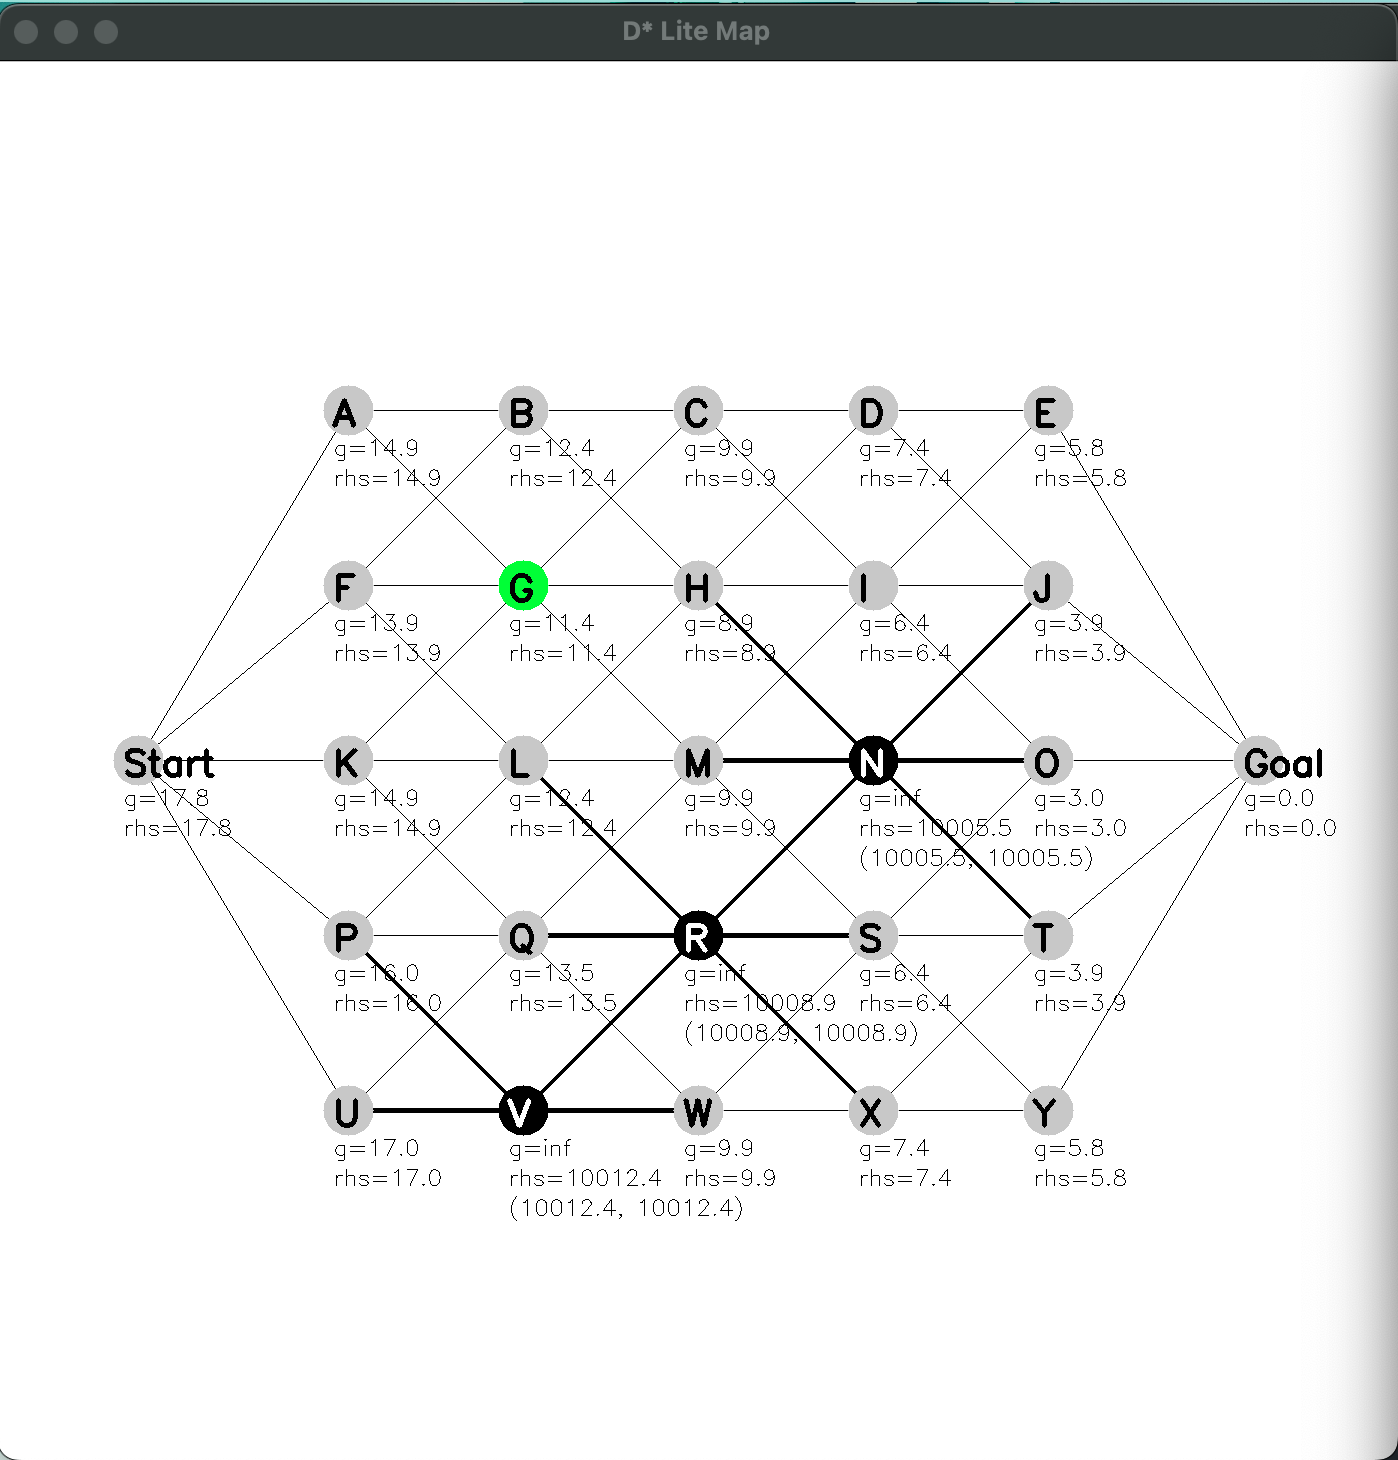
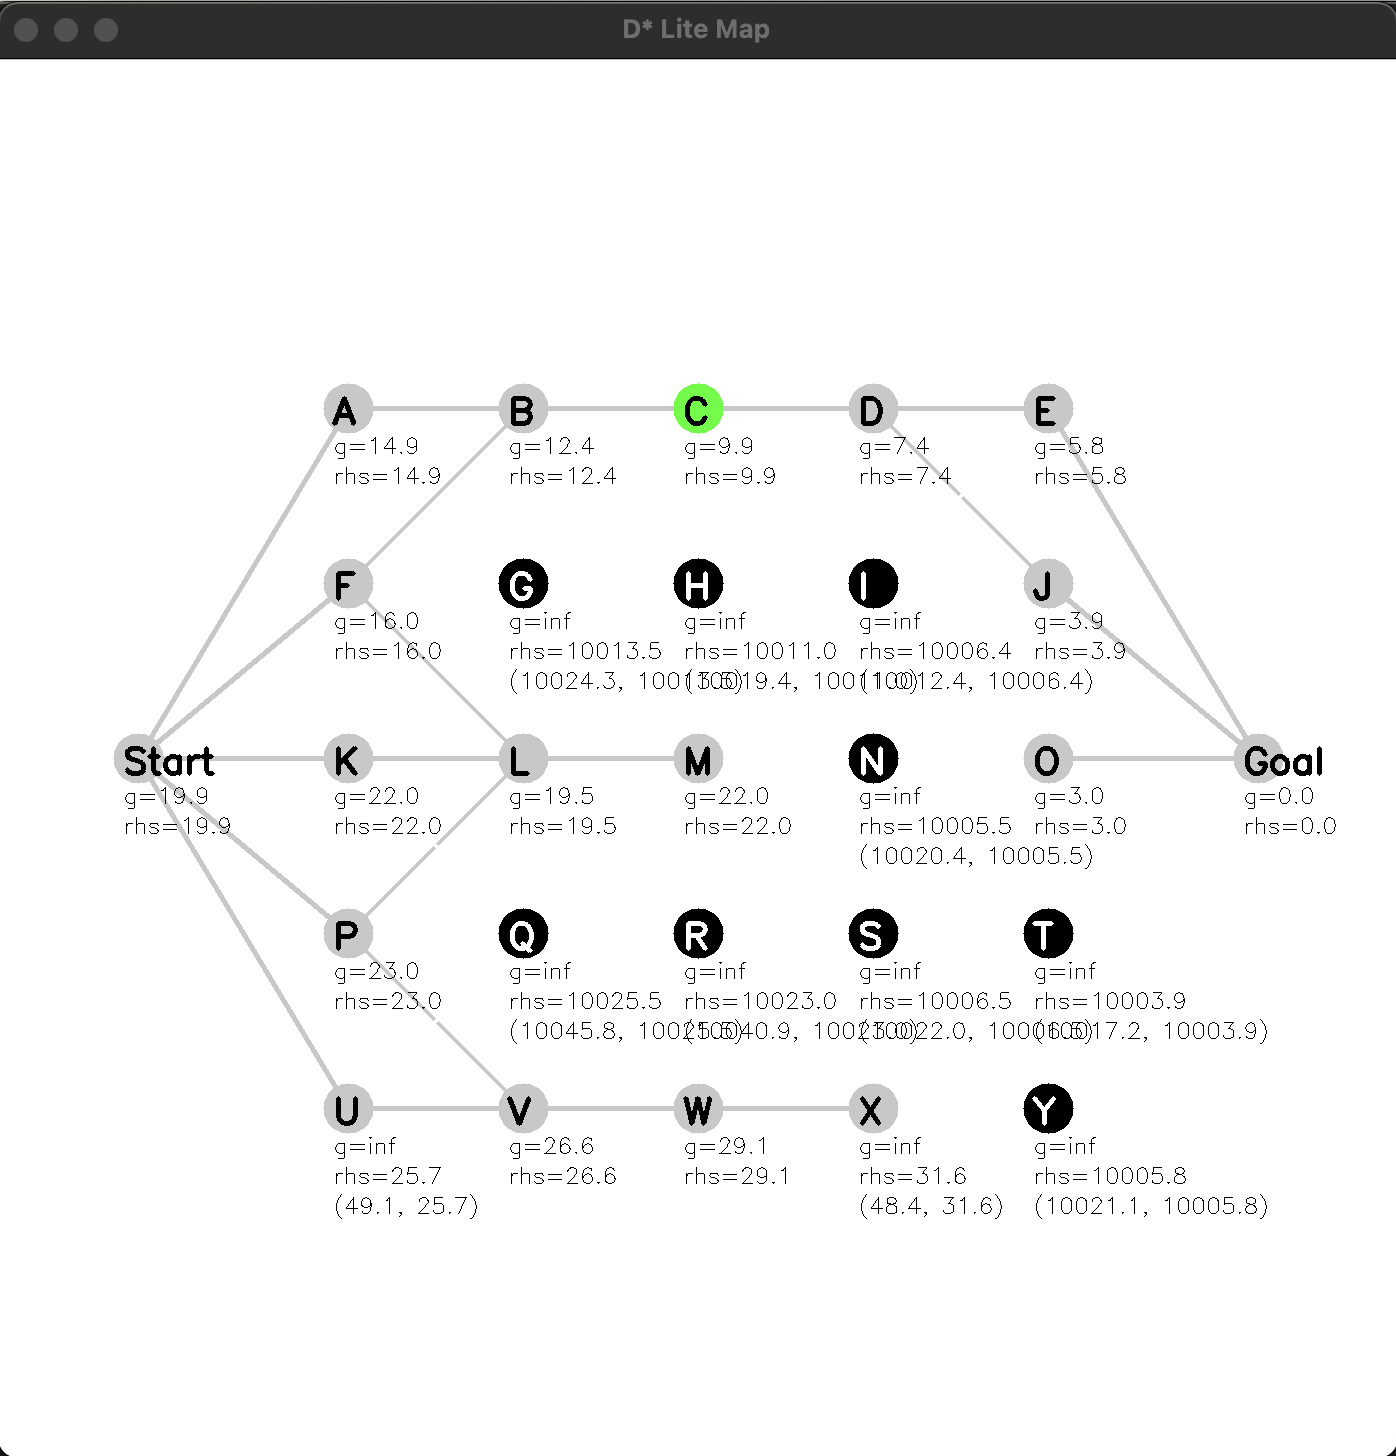
updating readme image

diff --git a/Planning/src/DStarLite/DStarLiteOptimized.h b/Planning/src/DStarLite/DStarLiteOptimized.h
@@ -25,7 +25,7 @@ public:
   void removeNamedObstacle(const string& obsName, double weight = 10000) override;
 
 private:
-  int DEBUG_LEVEL = 3;// 0 for no output, the higher the number the more output
+  int DEBUG_LEVEL = 0;// 0 for no output, the higher the number the more output
   void initialize() override;
   void updateVertex(const shared_ptr<DStarNode>&node) override;
   void computeShortestPath() override;

diff --git a/Planning/README.md b/Planning/README.md
@@ -7,8 +7,9 @@ Requires OpenCV to display images, and YAML to read in config files.
 	* Based on original D* Lite paper https://idm-lab.org/bib/abstracts/papers/aaai02b.pdf
 	* `dStarLite` runs D* Lite on a hard-coded graph of 5 nodes, with a moving obstacle also hard-coded in
 		* Text output only
-	* `dStarLiteInteractive` runs D* Lite on a graph of 25 nodes in a grid between Start and Goal Nodes
+	* `dStarLiteInteractive` and `dStarLiteOptimized` both run D* Lite on a graph of 25 nodes in a grid between Start and Goal Nodes
 		* At each iteration, user is prompted to list nodes to become obstacles, or list nodes to stop being obstacles
+		* Behavior should be identical, but dStarLiteInteractive uses the standard D* Lite algorithm and dStarLiteOptimized uses the optimized algorithm
 		* Example output:
 
 	<img src="./DStarLite.png" width="600">
@@ -44,6 +45,7 @@ Then run one of the following programs from the build folder. Type any key to cl
 ./aStarRandom 
 ./dStarLite
 ./dStarLiteInteractive
+./dStarLiteOptimized
 ./runAStar ../astar_params.yaml
 ./runRRT ../rrt_params.yaml
 ```
